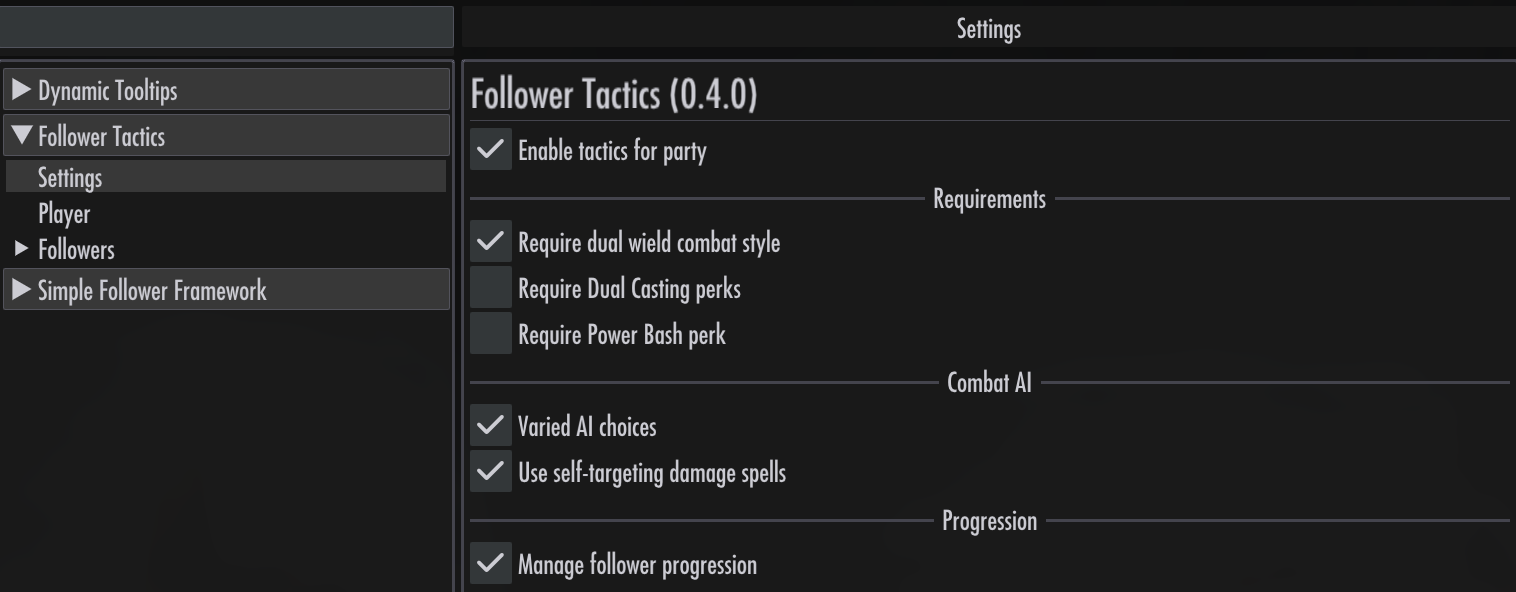
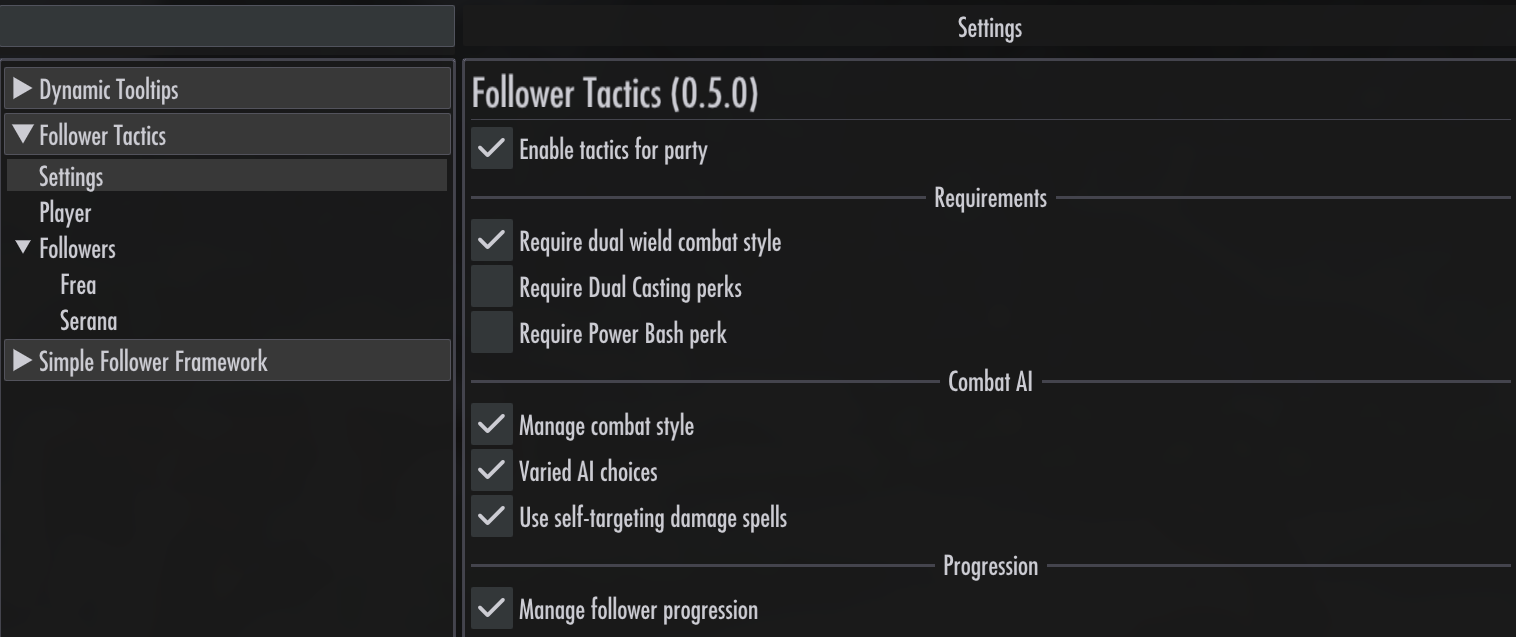
Prepare Follower Tactics 0.5.0

Changed region(s): [[0.0, 0.0304, 1.0, 0.973], [0.0, 0.0, 0.31, 0.0304]]

diff --git a/docs/guide/tactics.md b/docs/guide/tactics.md
@@ -2,7 +2,7 @@
 layout: "default"
 title: "Tactics"
 permalink: "/tactics/"
-nav_order: 2
+nav_order: 10
 has_toc: false
 ---
 
@@ -67,7 +67,9 @@ Most conditions are self-explanatory. A few are worth highlighting.
 
 `Armor` is shown as percent of damage reduction, rather than absolute values.
 
-`Effect` is met while the named effect is active on the target, whatever applied it. The list offers the lasting effects of the character's potions, food, spells, scrolls, powers, and shouts, including toggle powers. Negate it to act while the effect is absent.
+`Effect` is met while the named effect is active on the target, whatever applied it. The list offers lasting effects available from the whole party's potions, food, spells, scrolls, powers, and shouts, including toggle powers. Negate it to act while the effect is absent.
+
+`Rallied`, `Calmed`, `Feared`, and `Frenzied` detect active illusion influences on the target. For example, use a negated `Calmed` condition to avoid trying to calm an already calmed enemy.
 
 `Time` checks the part of the day: `Morning`, `Afternoon`, `Evening`, or `Night`. It is offered in idle tactics. The day is divided by the sun as the game's climate times it: morning from sunrise to noon, afternoon until sunset begins, evening through sunset, and night after it. In the unmodified game that is 5:30, 12:00, 16:00, and 20:30; weather mods may move sunrise and sunset. Hover over a part of the day to see its hours in your game.
 
@@ -123,7 +125,9 @@ Most actions are self-explanatory. A few are worth highlighting.
 
 The `Any buff` action for `Potion` picks a random potion that adds or improves a buff, e.g. Fortify Conjuration. An alchemy effect already active at equal or greater magnitude does not count as an improvement.
 
-A named potion, food, spell, scroll, power or shout used on the character themself is skipped while every lasting effect it gives is already active at equal or greater magnitude. Potions and food are compared with other alchemy; spells, scrolls, powers and shouts with each other.
+A named potion or food is skipped while its effects would add nothing, including when its lasting effects are already covered by alchemy of equal or greater strength. Items whose effects cannot apply to the character are skipped too.
+
+Spells, scrolls, powers, and shouts check whether their effects can apply to the target. A lasting cast waits while that spell is already active there; dual casting does not replace its own single cast, and a scroll and a spell are checked separately. Area effects consider only targets within each effect's reach. Reanimation checks whether the particular corpse can be raised, including its level and the caster's perks.
 
 For potions, food, and ingredients, `Strongest` and `Weakest` choose by effect. `Weakest` keeps stronger items in reserve: if the weakest item's effect is already covered, it waits instead of consuming a stronger one. `Strongest` can replace a weaker active effect.
 
@@ -199,6 +203,8 @@ A rule whose [condition](#conditions) or [action](#actions) is invalid is unavai
 If there are multiple actions for a rule, the rule is unavailable if **all** actions are invalid. If only some actions are invalid, the invalid ones are skipped.
 
 An action that cannot be done at the moment is also greyed, and its hover says why: not enough magicka for the spell, a shout still recovering, a greater power already used today, an action used too recently. This is read when the page is built, so it shows the state at the moment the panel was opened. An action that is simply already in effect, a buff still running or nothing to unequip, is not greyed: that is what the rule waits on.
+
+Temporarily unavailable rules remain editable. You can change their conditions and actions without waiting for magicka or cooldowns to recover. Powers have their own availability checks and do not wait for shout recovery.
 
 ## Reordering rules
 

diff --git a/docs/guide/combat-style.md b/docs/guide/combat-style.md
@@ -2,24 +2,38 @@
 layout: "default"
 title: "Combat Style"
 permalink: "/combat-style/"
-nav_order: 11
+nav_order: 9
 has_toc: false
 ---
 
 # Combat Style
 
-The `Combat Style` tab shows the follower's combat style.
+The `Combat Style` tab shows and adjusts how a follower fights: their weapon and spell preferences, aggression, defense, bashing, and movement. Hover over a label for an explanation.
 
 The player is not AI-controlled, and therefore has no combat style.
 {: .note }
 
 ![Combat style]({{ "/assets/img/panel/combat_style.png" | relative_url }}){: .screenshot loading="lazy"}
 
-Combat style determines how the AI picks attacks. In the example, `Magic` is set to 10 / 10, while Ranged is set to 0.55 / 10. The AI will therefore heavily prefer magic over ranged attacks. [Combat AI]({{ '/combat-ai/' | relative_url }}) describes what else goes into the choice.
+Combat style weights the AI's choices. Increasing `Magic` relative to `Ranged`, for example, makes spells more attractive than bows. [Combat AI]({{ '/combat-ai/' | relative_url }}) describes what else goes into the choice.
+
+## Adjusting a style
+
+Click a value to open its slider. The slider adds to or subtracts from the follower's original value; click the value again to close it. Use the adjacent `Reset` to restore that field, or the `Reset` at the top of the tab to restore the whole style after confirmation.
+
+![Adjusting Melee preference with its slider and Reset controls]({{ "/assets/img/panel/combat_style_modify.png" | relative_url }}){: .screenshot loading="lazy"}
+
+In this example, `Melee` has a `+2.1` adjustment, bringing its value to `6.35 / 10`. The `Base ID` row marks the style as `(modified)` while adjustments are applied.
+
+`Flanking` switches close-range movement between flanking and circling/falling back. Adjust the corresponding movement values to tune the chosen behavior.
+
+`Settings` → `Combat AI` → `Manage combat style` is on by default. Turning it off restores followers' original styles and makes the tab read-only, while keeping your adjustments for when you turn it back on. Adjustments are saved with your game and do not permanently change the original combat-style records.
+
+![Settings with Manage combat style enabled under Combat AI]({{ "/assets/img/panel/settings.png" | relative_url }}){: .screenshot loading="lazy"}
 
 ## Dual-wielding
 
-Combat style also determines whether a follower can dual-wield.
+Combat style also determines whether a follower can dual-wield. Toggle dual-wielding on this tab to allow or disallow it for that follower.
 
 ![Combat style dual wield]({{ "/assets/img/panel/combat_style_dual_wield.png" | relative_url }}){: .screenshot loading="lazy"}
 

diff --git a/docs/README.md b/docs/README.md
@@ -28,7 +28,7 @@ Open http://127.0.0.1:4000/SkyrimFollowerTactics/. Re-run the build after editin
 
 `_data/guide.json` defines the sidebar's page links and heading anchors. Keep it aligned with headings when editing. The sidebar stays on the left at every screen size; its arrow collapses it to a narrow rail. Click **Table of contents** to collapse all sections when all are open, or expand them all otherwise. Individual sections can also be collapsed. Search is Just the Docs' built-in Lunr index, including headings and body content; Ctrl+K / Cmd+K focuses it.
 
-Screenshots live in `assets/img/panel/`. `settings.png` shows the full Settings page; `settings_requirements.png` shows perk and dual-wield requirements; `settings_combat_ai.png` shows the two AI options. The new training screenshots appear in `guide/training.md`.
+Screenshots live in `assets/img/panel/`. `settings.png` shows the 0.5.0 Settings page, including all three Combat AI options; `settings_requirements.png` shows perk and dual-wield requirements. `combat_style_modify.png` illustrates the adjustment slider and Reset controls in `guide/combat-style.md`. Training screenshots appear in `guide/training.md`.
 
 `guide/changelog.md` is a symlink to the repository's `CHANGELOG.md` and appears before Thanks in the sidebar. Edit the root file when adding release notes. On Windows, a checkout needs `git config core.symlinks true` and Developer Mode to get a real link.
 
@@ -42,7 +42,7 @@ The versioned build uses [`.github/workflows/docs.yml`](../.github/workflows/doc
 
 ## Versions
 
-- The site root shows the current `master` guide, labeled by `docs_version` in `_config.yml` (currently `0.4.0`). Local previews use the working tree.
+- The site root shows the current `master` guide, labeled by `docs_version` in `_config.yml` (currently `0.5.0`). Local previews use the working tree.
 - Each `vMAJOR.MINOR.PATCH` tag is built from its own `docs/` directory under `/<version>/`, such as `/SkyrimFollowerTactics/0.2.0/`. Tags must contain a buildable Jekyll guide. Creating `v0.3.0` adds `/0.3.0/` automatically.
 - Only the current sidebar and header templates, custom stylesheet, and guide script are shared with historical builds, so older docs get the same title, version selector, and navigation controls. The version selector sits in the top bar before the Nexus Mods and GitHub icons. Page content, navigation data, screenshots, and search indexes come from the tag. Search stays within the selected version.
 - The selector keeps the current page when that permalink exists in the other version, otherwise it opens that version's home page.

diff --git a/docs/index.md b/docs/index.md
@@ -14,11 +14,12 @@ has_toc: false
 
 ## Features
 
-- More varied follower [combat AI]({{ '/combat-ai/' | relative_url }}) that accounts for perks, enemy immunities, and magicka
 - [Tactics]({{ '/tactics/' | relative_url }}) for the player and followers, with separate combat and idle rules
 - Inspection of player and follower [inventory]({{ '/inventory/' | relative_url }}), [magic]({{ '/magic/' | relative_url }}), [skills]({{ '/skills/' | relative_url }}), and more
 - Follower [equipment management]({{ '/equip-states/' | relative_url }})
-- Reversible [follower training]({{ '/training/' | relative_url }}) for levels, attributes, skills, perks, and spells
+- Adjustable follower [combat styles]({{ '/combat-style/' | relative_url }}), including attack preferences, movement, and dual-wielding
+- More varied follower [combat AI]({{ '/combat-ai/' | relative_url }}) that accounts for perks, enemy immunities, and magicka
+- [Follower progression management]({{ '/training/' | relative_url }}) for levels, attributes, skills, perks, and spells
 - SKSE plugin, no ESP, easy uninstall
 
 ## Non-features
@@ -27,7 +28,5 @@ This mod focuses on understanding followers, setting their tactics, and training
 
 - Follower management framework
   - See options like [Simple Followers Framework](https://www.nexusmods.com/skyrimspecialedition/mods/174017)
-- Combat AI overhaul
-  - Underlying AI behavior is preserved. Tactics override it when a rule fires, and [optional changes]({{ '/combat-ai/' | relative_url }}) only affect how followers choose weapons and attack spells
 - Gameplay rebalancer
   - Some followers are over or underpowered. This is not addressed.

diff --git a/docs/guide/getting-started.md b/docs/guide/getting-started.md
@@ -46,11 +46,13 @@ The player and followers start with no [tactics]({{ '/tactics/' | relative_url }
 
 ## Saving your changes
 
-Both tactics lists, their enable / disable switches, pins, bans, Settings choices, and follower training records are saved when you save the game, including quicksaves and autosaves. There is no separate save button for the mod.
+Both tactics lists, their enable / disable switches, pins, bans, Settings choices, combat-style adjustments, and follower training records are saved when you save the game, including quicksaves and autosaves. There is no separate save button for the mod.
 
 Loading an earlier save restores the choices saved with it. Closing the panel does not save changes, and quitting without saving loses them. These choices belong to each game save; they are not shared across characters or new games.
 
 ## Reporting problems
+
+Please [open an issue on GitHub](https://github.com/Whocares66-Dev/SkyrimFollowerTactics/issues) or [file a bug on Nexus Mods](https://www.nexusmods.com/skyrimspecialedition/mods/192531?tab=bugs). Describe what happened, what you expected, and how to reproduce it. Include your Skyrim and Follower Tactics versions and the relevant logs.
 
 The log is `Documents\My Games\Skyrim Special Edition\SKSE\FollowerTactics.log`. `FollowerTactics.events.jsonl` beside it records what tactics did, one event per line. Earlier sessions are kept in `SKSE\FollowerTactics\`.
 

diff --git a/CHANGELOG.md b/CHANGELOG.md
@@ -8,6 +8,16 @@ has_toc: false
 
 # Changelog
 
+## 0.5.0
+
+Major changes since `v0.4.0`:
+
+- **Editable follower combat styles:** tune weapon and spell preferences, aggression, defense, bashing, and movement on the Combat Style tab. Toggle flanking and dual-wielding, reset individual values or the whole style, and keep adjustments with your save.
+- **More expressive conditions:** use time of day and outdoor weather in idle tactics, and detect Rallied, Calmed, Feared, and Frenzied targets. The `Effect` condition now offers effects available across the whole party.
+- **Smarter spell and item use:** tactics check whether an action can affect its target, including immunities, effect requirements, and which corpses can be raised. Buffs and area spells wait while already active on the targets they can reach, avoiding repeated casts of abilities such as Dragon Aspect and Dragonhide.
+- **More precise equipment rules:** unequip one hand or a selected armor part, such as a helmet, cloak, or backpack. Long weapon and armor menus are grouped by weapon type and body part.
+- **Easier rule editing:** temporarily unavailable rules stay editable, and menus open above their cells when there is no room below. Powers no longer wait for shout recovery, and automatic player casts more reliably wait for equipment to finish changing.
+
 ## 0.4.0
 
 Major changes since `v0.3.0`:

diff --git a/docs/guide/combat-ai.md b/docs/guide/combat-ai.md
@@ -2,7 +2,7 @@
 layout: "default"
 title: "Combat AI"
 permalink: "/combat-ai/"
-nav_order: 12
+nav_order: 11
 has_toc: false
 math: true
 ---
@@ -11,7 +11,9 @@ math: true
 
 Followers fight with Skyrim's own combat AI, and [tactics]({{ '/tactics/' | relative_url }}) override it only when a rule fires. Two switches under `Settings` → `Combat AI` change how the AI picks a follower's weapon and attack spell. Both are on by default, apply only to followers, and are [saved with the game]({{ '/getting-started/' | relative_url }}#saving-your-changes).
 
-![Combat AI settings]({{ "/assets/img/panel/settings_combat_ai.png" | relative_url }}){: .screenshot loading="lazy"}
+The same section also contains `Manage combat style`, which enables each follower's [combat-style adjustments]({{ '/combat-style/' | relative_url }}#adjusting-a-style). It is on by default; turn it off to restore their original styles while keeping your adjustments.
+
+![Settings showing Manage combat style, Varied AI choices, and Use self-targeting damage spells]({{ "/assets/img/panel/settings.png" | relative_url }}){: .screenshot loading="lazy"}
 
 ## Varied AI choices
 

diff --git a/README.md b/README.md
@@ -9,6 +9,7 @@
 - Set condition-action [tactics](https://whocares66-dev.github.io/SkyrimFollowerTactics/tactics/) for the player and followers, with separate combat and idle rules.
 - Inspect player and follower inventory, magic, skills, active effects, and more.
 - Manage follower equipment with [pins and bans](https://whocares66-dev.github.io/SkyrimFollowerTactics/equip-states/).
+- Adjust each follower's [combat style](https://whocares66-dev.github.io/SkyrimFollowerTactics/combat-style/), including attack preferences, movement, and dual-wielding.
 - [Train followers](https://whocares66-dev.github.io/SkyrimFollowerTactics/training/) through skill use, reassign attributes and perks, and teach or forget spells without permanently changing their original abilities.
 - Install as an SKSE plugin, with no ESP.
 

diff --git a/docs/guide/thanks.md b/docs/guide/thanks.md
@@ -17,3 +17,5 @@ This project was inspired and made possible by the work of:
 - [iRonoa](https://www.nexusmods.com/profile/iRonoa) for [Follower Equip Control](https://www.nexusmods.com/skyrimspecialedition/mods/175124)
 - [Aaronavich](https://www.nexusmods.com/profile/Aaronavich) for [houseCARL](https://www.nexusmods.com/skyrimspecialedition/mods/181738)
 - [Noggog](https://github.com/Noggog) for [Mutagen](https://github.com/Mutagen-Modding/Mutagen)
+
+Thanks also to [resharr](https://www.nexusmods.com/profile/resharr) on Nexus Mods for bug reports and suggestions.

diff --git a/docs/guide/training.md b/docs/guide/training.md
@@ -2,7 +2,7 @@
 layout: "default"
 title: "Follower training"
 permalink: "/training/"
-nav_order: 10
+nav_order: 12
 has_toc: false
 ---
 

diff --git a/docs/guide/equip-states.md b/docs/guide/equip-states.md
@@ -2,7 +2,7 @@
 layout: "default"
 title: "Equip states"
 permalink: "/equip-states/"
-nav_order: 5
+nav_order: 4
 has_toc: false
 ---
 

diff --git a/docs/guide/character.md b/docs/guide/character.md
@@ -2,7 +2,7 @@
 layout: "default"
 title: "Character"
 permalink: "/character/"
-nav_order: 3
+nav_order: 2
 has_toc: false
 ---
 
